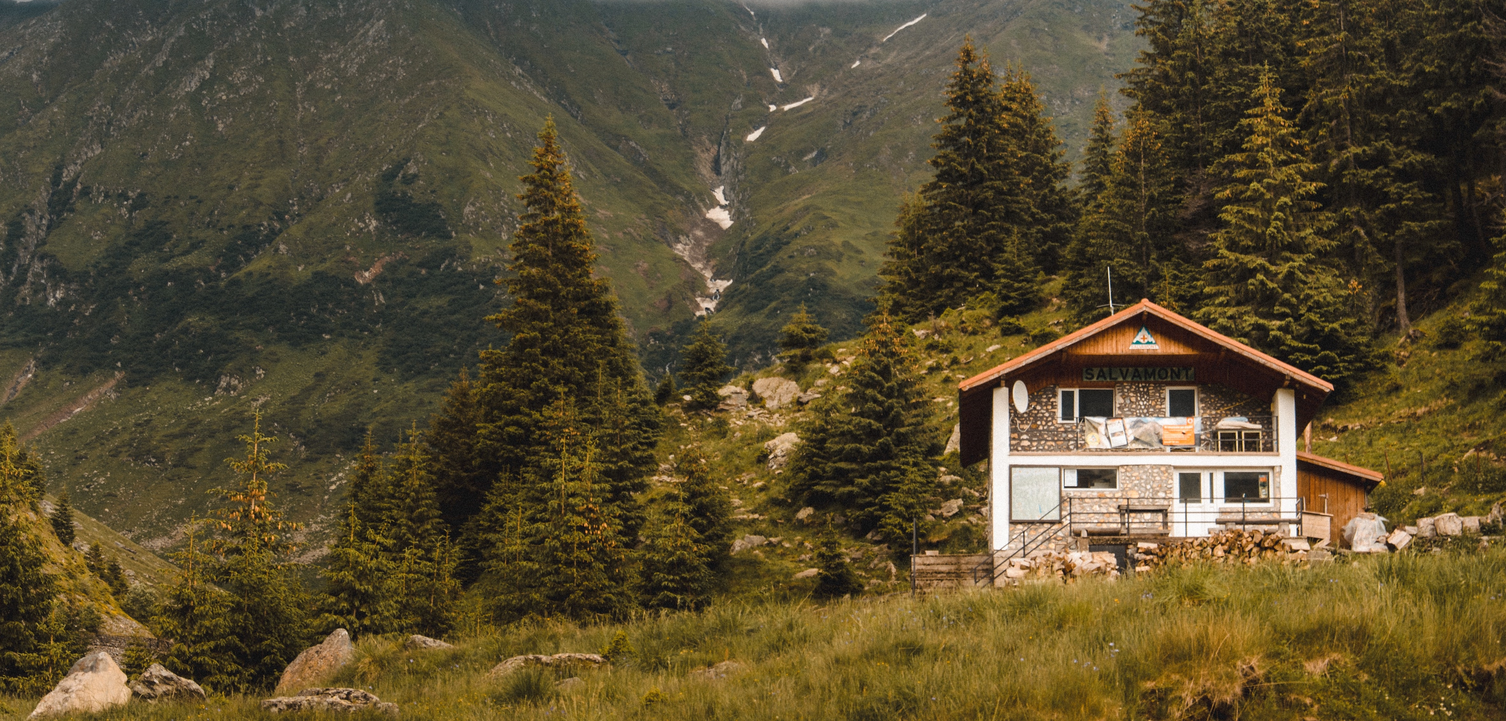
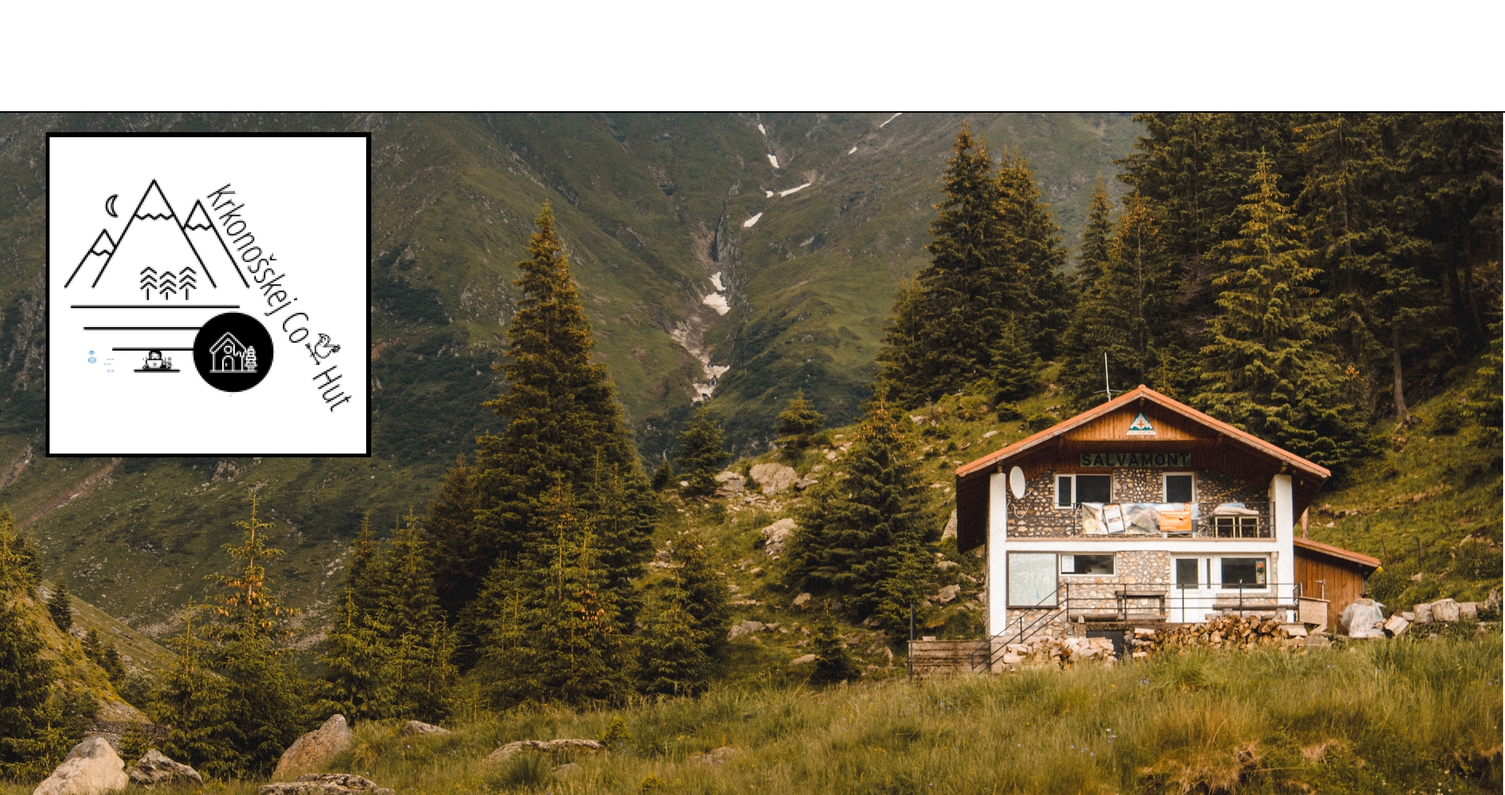
zmena loginu

diff --git a/index.html b/index.html
@@ -4,18 +4,22 @@
     <meta charset="UTF-8">
     <meta name="viewport" content="width=device-width, initial-scale=1.0">
     <link rel="stylesheet" href="index.css">
-    <title>Co-Cottage</title>
+    <title>Co-Hut.cz [Kohůt] - Komunitní coworking. S kohoutem!</title>
 </head>
 <body>
     <div class="container">
         <div class="header">
-        <h1>Co-Cottage</h1>
-        <span class="caption">Tvoje horská kancelář.</span>
+        <h1>Krkonošskej Co-Hut [Kohůt]</h1>
+        <span class="caption">Komunitní coworking. S kohoutem!</span>
         </div>
 
-        <div class="description">
-            Coworking je budoucnost. Rozhodli jsme se spojit výhody práce na dálku s láskou k přírodě a založili <strong>coworkingovou chatu v Krkonoších</strong>. 
-            Přijeď za námi na Co-Cottage a poznej krásu života v horách!
+        <div class="description-big">
+            Zavřenej v Praze, Brně? Chceš makat z hor, ale nemáš chatu natož dalších 5 remoutérů, kteří by ti dělali společnost? Vítej na palubě! 
+		</div>
+		<div class="description-small">
+		
+			Rozhodli jsme se spojit výhody práce na dálku s láskou k přírodě a založili <strong>coworkingovou chatu v Krkonoších</strong>. 
+            Přijeď za námi na Kohůta a poznej krásu života v horách!
         </div>
      <div class="features-wrapper">
          <!-- <h2>Co tady zazijes</h2> -->
@@ -35,41 +39,67 @@
             </div>
      </div> 
 
-     <div class="expectations-wrapper">
-         <h2>Jak to na Co-Cottage funguje?</h2>
-         <p>Očekáváme, že budeš dodržovat alespoň zkrácený pracovní režim. Tedy aspoň 5 hodin se ve všední dny věnovat práci v jakýkoliv hodinách. Kdyby tomu tak nebylo, jsi v podstatě na dovolené a to by demotivovalo ostatní obyvatele. Dále si po sobě umíš uklidit, uklízečky nezaměstnáváme. </br> </br>Míra socializace je čistě na tobě - coworkeři často vyráží na společné výlety nebo si třeba promítnou film. Pokud ale budeš mít náladu na zamyšlenou procházku, či klidný večer s knihou, všichni to naprosto chápem :-)</p>
+     <div class="rules-wrapper">
+         <h2>Kdo je Kohůt?</h2>
+		 <p>Kohůt jsou lidi, komunita a brzo i ty, to je důležitý.</p>
+		 
+		 <p>Ale vážně. Jsme komunitní coworking. Né takovej ten anonymní, kde přijedeš, trapně pozdravíš někoho v kuchyňce a rychle se vytratíš. Takový, kde poznáš nové přátelé, pohneš s projektem, ale co nejvíc - po práci zábava v horách. A budeš se chtít vracet.</p>
+		 
+		 <p>Při zakládání Kohůta jsme se inspirovali v zahraničí sdíleným bydlením, kdy dnešní generace milénialů často volí radějí komunitní bydlení, než hypotéku a zapuštění kořenů. Avšak tak daleko nejdeme.</p> 
+		 
+		 <p>V praxi jsme spojili komunitní bydlení s prací na dálku a vznikl Kohůt - místo kam přijedeš párkrát za rok, nejenom proto, že pracovat z hor je zajísté poetičtější než z Prahy, ale protože už nejedeš někam do neznáma, ale za kámošema na horskou chatu.</p>
+		
      </div>
+	 
      <div class="facilities-wrapper">
          <h2>Co také můžeš dělat (ale nemusíš)</h2>
          <div class="lists">
             <ul>
-                <li>jet na výlet na horském kole</li>
-                <li>jít na jeden z námi doporučených výletů</li>
-                <li>venčit psa</li>
-                <li>pouštět draka</li>
-                <li>hrát deskovky</li>
+                <li>objevovat Krkonoše na kole</li>
+                <li>šlapat ty <b>nejstrmější kopce</b> v ČR</li>
+                <li>venčit <b>oddílového psa</b>, Žeryka</li>
+                <li>pokoušet se <b>pouštět letajícího draka</b> a poté to vzdát</li>
+                <li>opravovat diravou střechu</li>
 
             </ul>
             <ul>
-               <li>jezdit na lyžích</li>
-               <li>objevovat okolí na běžkách</li>
-               <li>vyzkoušet si výlat se sněžnicemi</li>
+               <li>nechat se zavalit lavinou</li>
+			   <li>štípat dříví</li>
+			   <li>namakat si lýtka na běžkách</li>
+               <li>vyzkoušet si výlat se sněžnicem</li>
                <li>vylepšovat náš domeček</li>
-               <li>štípat dříví</li>
+			   <li>štrikovat ponožky a obdarovat toho štipajícího dříví</li>
+               
            </ul>
          </div>
        
      </div>  
+	 
+	 <div class="expectations-wrapper">
+	 
+	          <h2>Pár pravidel a doporučení</h2>
+
+		<ol>
+		<li>Pracujem - očekáváme, že budeš dodržovat alespoň zkrácený pracovní režim. Tedy aspoň 5 hodin se ve všední dny věnovat práci v jakýkoliv hodinách. Kdyby tomu tak nebylo, válíš si šunky a pracovní morálka ostatních by upadala.</li>
+		<li>Pomáhame - nejsme hotel. Zaměstnance, v právém slovasmyslu, tu nehledej. Díky tomu máme ty přátelské ceny. Ale něco za něco. Můsíme si pomáhat. Správce chaty má vždycky pravdu a každý Kohuťák se snaží, aby vše fungovalo tak jak má. Pomůže, když je třeba, protože když né my, tak kdo?</li>
+		<li>Míra socializace je čistě na tobě - coworkeři často vyráží na společné výlety nebo si třeba promítnou film. Pokud ale budeš mít náladu na zamyšlenou procházku, či klidný večer s knihou, všichni to naprosto chápem :-)</li>
+		<li>Hakuna matata! No Problem! Kohůt je místo, kde jedeš pracovat, ale budeš se citít jako na dovolené. Na dovolené se relaxuje, běhá, možná skáče, ale rozhodně si ji nekazíme pro maličkosti.</li>
+		</ol>
+	
+     </div>
+
 
      <div class="pricelist-wrapper">
          <h2>Ceník</h2>
          <p>Zakládáme si na dostupných cenách. Jen díky tomu se zde vždy sejde rozmanitá skupina lidí různých zájmů a profesí. Zároveň si nehrajeme na hotel - najdeš tu vše, co potřebuješ (postel, koupelnu, teplo, internet, stůl, židli, kávu, čaj), ale o chod domácnosti se staráme všichni.</p>
          <ul>
-             <li>Méně než 2 týdny..........................300 Kč/noc</li>
+             <li>Zkušební týden ................. 4000 Kč/7 nocí</li>	
              <li>Více než 2 týdny..........................290 Kč/noc</li>
              <li>Více než 3 týdny..........................280 Kč/noc</li>
          </ul>
          <p class="disclaimer">*minimální doba pobytu je 1 týden</p>
+		 <p class="disclaimer">**jsme si vědomi, že nízká cena ubytování může být lákavý způsob jak si užít dovolenou na horách, nícé</p>
+
      </div>
 
 

diff --git a/index.css b/index.css
@@ -68,12 +68,20 @@ h2 {
   text-align: center;
   width: 145px;
 }
-.description {
+.description-big {
   text-align: center;
-  margin-bottom: 100px;
+  margin-bottom: 50px;
   padding: 0 100px;
-  font-size: 1.5em;
-    font-style: italic;
+  font-size: 1.3em;
+  font-style: italic;
+}
+
+.description-small {
+  text-align: center;
+  margin-bottom: 20px;
+  padding: 0 50px;
+  font-size: 1.0em;
+  font-style: italic;
 }
 
 .facilities-wrapper {
@@ -84,6 +92,12 @@ width: 100%;
 }
 
 .expectations-wrapper {
+  padding: 0 100px;
+  /* text-align: center; */
+  margin-bottom: 150px;
+}
+
+.rules-wrapper {
   padding: 0 100px;
   /* text-align: center; */
   margin-bottom: 150px;
